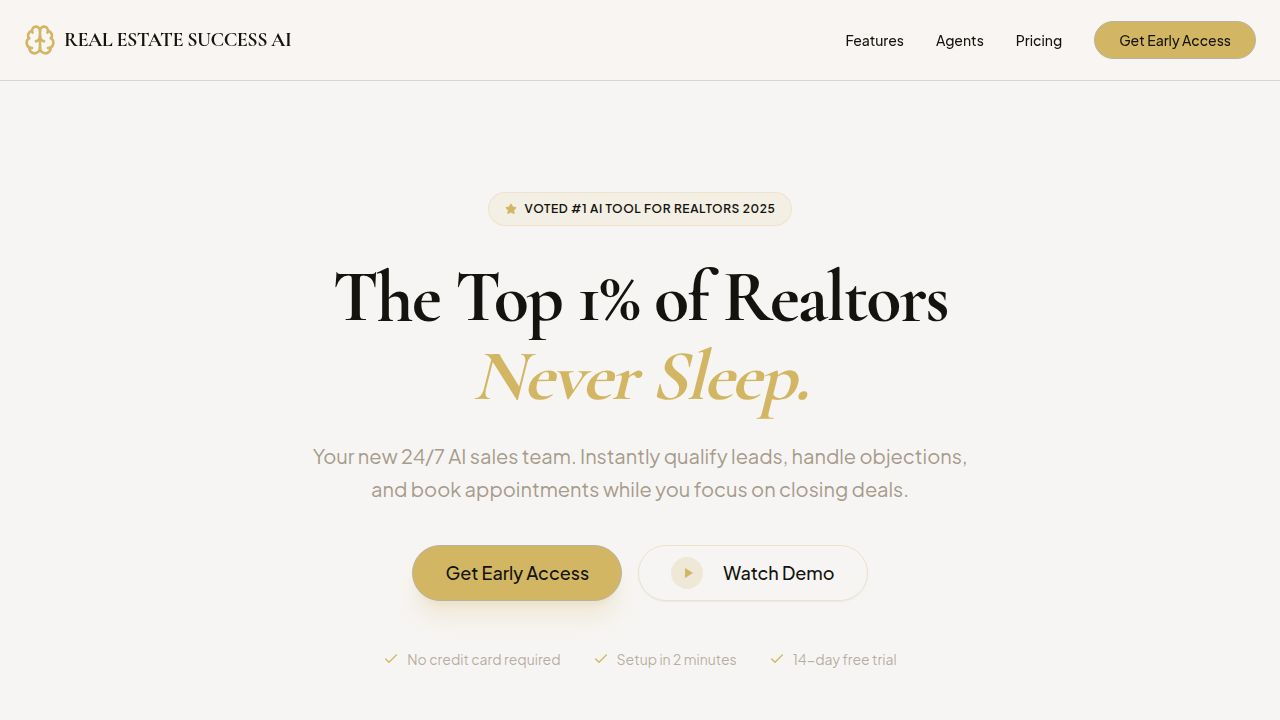
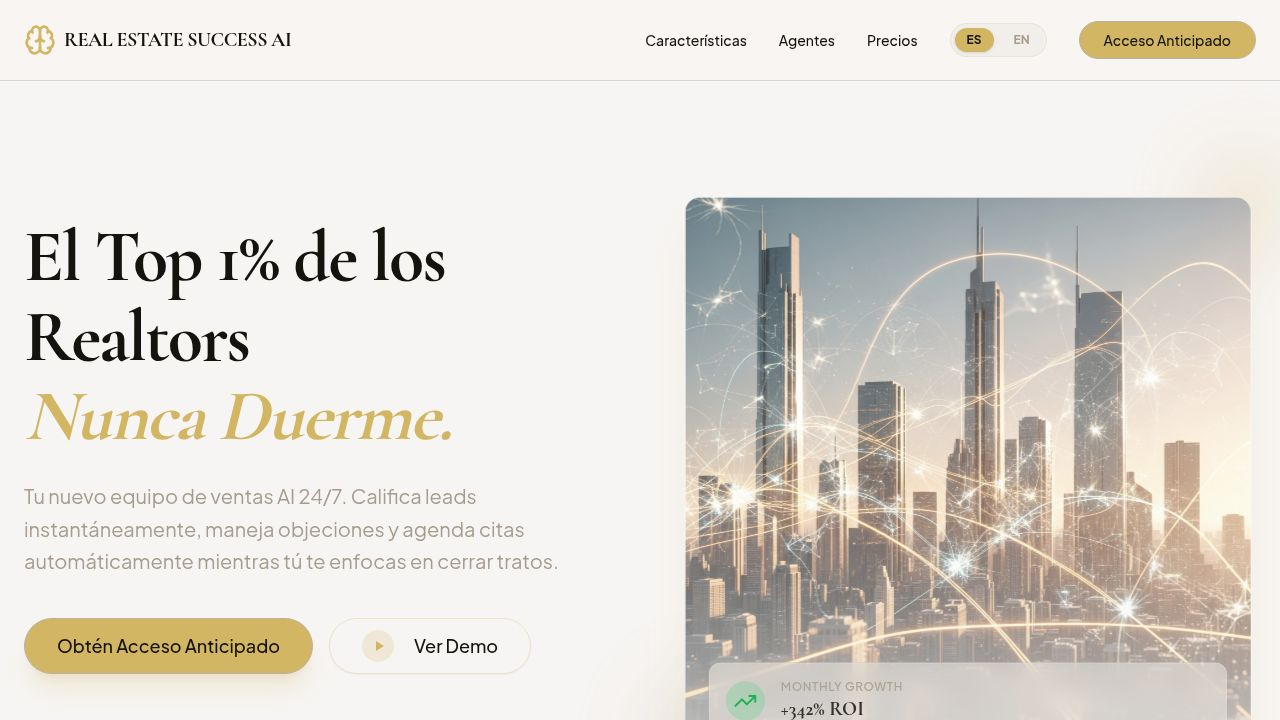
Remove award badge from the hero section
Remove the award badge div from the Hero section in client/src/pages/home.tsx.

Replit-Commit-Author: Agent
Replit-Commit-Session-Id: 922d786d-3a87-4060-9de0-c5f91db23f4b
Replit-Commit-Checkpoint-Type: full_checkpoint
Replit-Commit-Event-Id: 0a141273-1ca4-45b7-aca7-5c27122e53a6
Replit-Commit-Screenshot-Url: https://storage.googleapis.com/screenshot-production-us-central1/1d43d391-dd42-48c1-8572-3d401925dca3/922d786d-3a87-4060-9de0-c5f91db23f4b/MqXPcCN
Replit-Helium-Checkpoint-Created: true

diff --git a/client/src/pages/home.tsx b/client/src/pages/home.tsx
@@ -649,10 +649,6 @@ const Hero = ({ t }: { t: any }) => {
               animate={{ opacity: 1, y: 0 }}
               transition={{ duration: 0.6 }}
             >
-              <div className="inline-flex items-center gap-2 px-4 py-2 rounded-full bg-primary/10 border border-primary/20 text-primary-foreground text-xs font-semibold uppercase tracking-wider mb-8">
-                <Star className="w-3 h-3 fill-primary text-primary" />
-                {t.hero.badge}
-              </div>
               <h1 className="text-5xl md:text-7xl font-heading font-bold leading-[1.1] mb-6 text-foreground">
                 {t.hero.headline}
               </h1>
